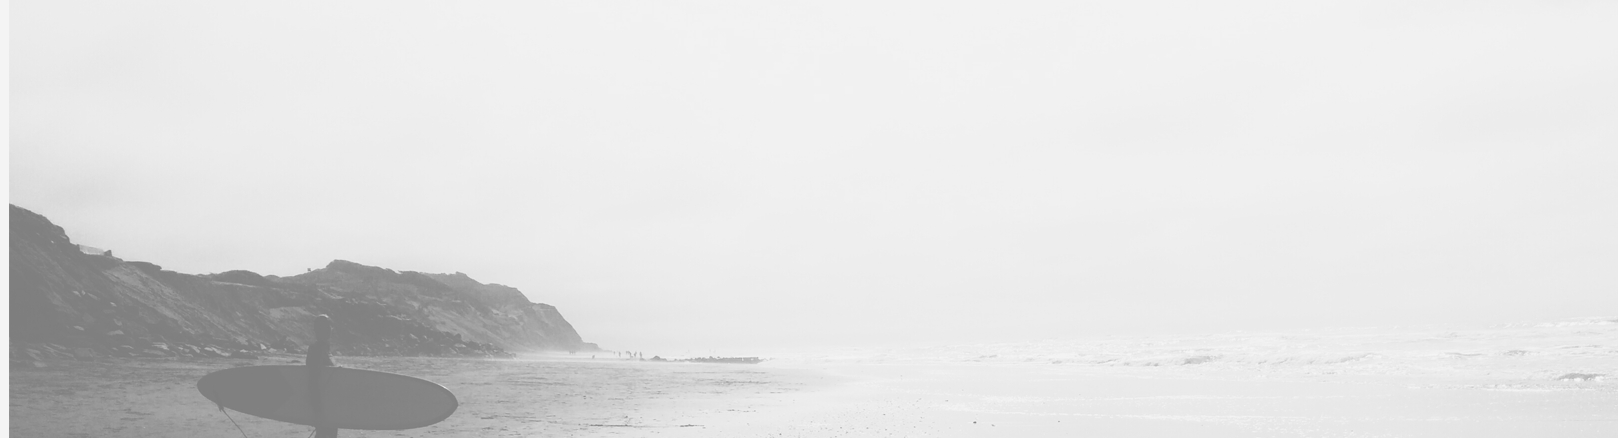
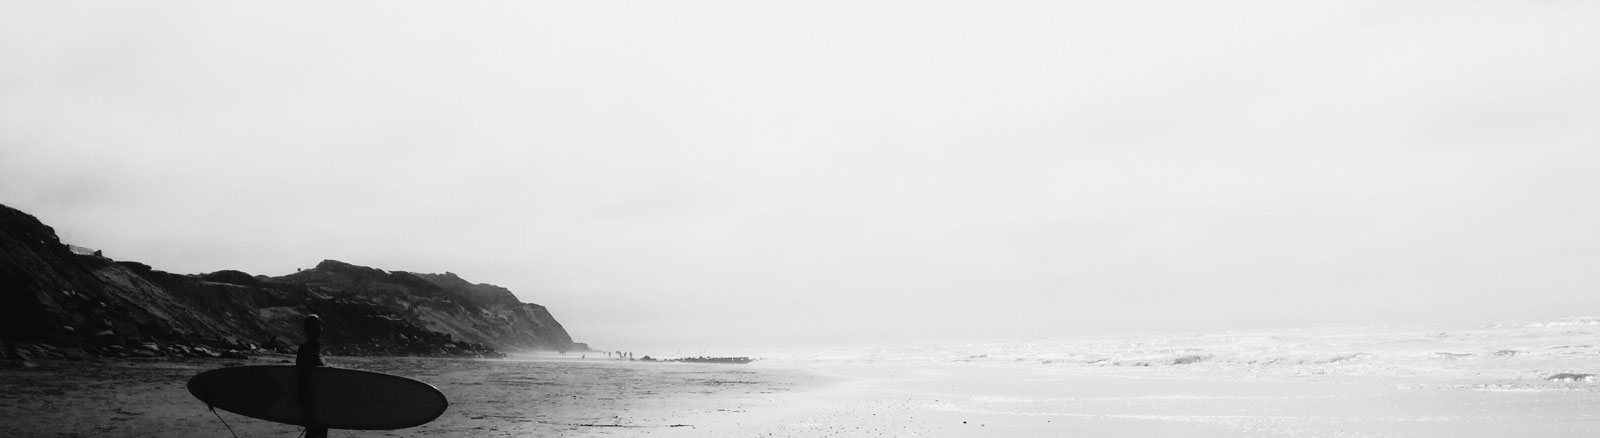
finished subscribe block

Changed region(s): [[0.0, 0.2968, 0.5, 1.0], [0.9375, 0.8311, 1.0, 0.8904], [0.7188, 0.8014, 0.75, 0.8311]]

diff --git a/style.css b/style.css
@@ -414,8 +414,8 @@ color: #f16d7f;
     width: 100%;
     background-image: url(img/subscribe-review-bg.jpg);
     background-repeat: no-repeat;
-    background-position: -10px;
     display: flex;
+    background-size: cover;
 }
 
 .review {
@@ -427,4 +427,110 @@ color: #f16d7f;
     width: 50%;
     height: 437px;
     border-left: 1px solid #ffffff;
+}
+
+.review__block {
+    width: 500px;
+    margin-top: 123px;
+    display: flex;
+    margin-left: 240px;
+}
+
+.review__photo {
+    width:83px;
+    height:83px;
+    padding-right: 28px;
+}
+
+.review__content {
+    color: #222224;
+    font-size: 16px;
+    font-style: italic;
+    line-height: 26px;
+    letter-spacing: 0.4px;
+}
+
+.reviewer_name {
+    color: #f16d7f;
+    font-size: 16px;
+    font-weight: 700;
+    letter-spacing: 0.4px;
+    line-height: 26px;
+}
+
+.reviewer_location {
+    color: #222224;
+    font-size: 12px;
+    font-weight: 300;
+    letter-spacing: 0.3px;
+    line-height: 14px;
+}
+
+.review__text {
+    width: 386px;
+}
+
+.review__dots {
+    display: flex;
+    justify-content: flex-start;
+    margin-top: 41px;
+}
+
+.review__dot {
+    margin-right: 13px;
+}
+
+.subscribe__block {
+    width: 386px;
+    margin-left: 92px;
+    margin-top: 148px;
+    text-align: center;
+}
+
+.subscribe__h3 {
+    color: #222224;
+    font-weight: 600;
+    font-size: 24px;
+    letter-spacing: 0.6px;
+    line-height: 24px;
+    text-transform: uppercase;
+}
+
+.suscribe__h4 {
+    color: #222224;
+    font-size: 14px;
+    font-weight: 600;
+    text-transform: uppercase;
+    letter-spacing: 0.35px;
+    line-height: 24px;
+    margin-bottom: 35px;
+}
+
+.subscribe__form {
+    display: flex;
+    justify-content: center;
+}
+
+.subscribe__input {
+    width: 282px;
+    border-radius: 23px 0px 0px 23px;
+    background-color: #e1e1e1;
+    height: 46px;
+    border-color:transparent;
+    padding-left: 28px;
+    color: #222224;
+    font-size: 14px;
+    font-weight: 400;
+}
+
+.subscribe__button {
+    width:104px;
+    height: 50px;
+    border-radius:0px 23px 23px 0px;
+    background-color: #f16d7f;
+    color: #ffffff;
+    font-size: 14px;
+    font-weight: 400;
+    line-height: 47px;
+    letter-spacing: 0.35px;
 }

diff --git a/index.html b/index.html
@@ -225,10 +225,30 @@
     </div>
     <section class="subscribe-review__block">
         <div class="review">
-            
+            <figure class="review__block">
+                <img src="img/review-img.png" class="review__photo">
+                <figcaption class="review__text">
+                    <p class="review__content">“Vestibulum quis porttitor dui! Quisque viverra nunc mi, 
+a pulvinar purus condimentum a. Aliquam condimentum mattis neque sed pretium”</p>
+                    <p class="reviewer_name">Bin Burhan</p>
+                    <p class="reviewer_location">Dhaka, Bd</p>
+                    <div class="review__dots">
+                        <img class="review__dot" src="img/review-dots-grey.svg">
+                        <img class="review__dot" src="img/review-dots-pink.svg">
+                        <img class="review__dot" src="img/review-dots-grey.svg">
+                    </div>
+                </figcaption>
+            </figure>
         </div>
         <div class="subscribe">
-            
+           <div class="subscribe__block">
+                <h3 class="subscribe__h3">Subscribe</h3>
+               <h4 class="suscribe__h4">FOR OUR NEWLETTER AND PROMOTION</h4>
+               <form method="post" action="#" class="subscribe__form">
+                   <input type="email" placeholder="Enter Your Email" class="subscribe__input">
+                   <div class="subscribe__button">Subscribe</div>
+               </form>
+            </div> 
         </div>
     </section>
     
